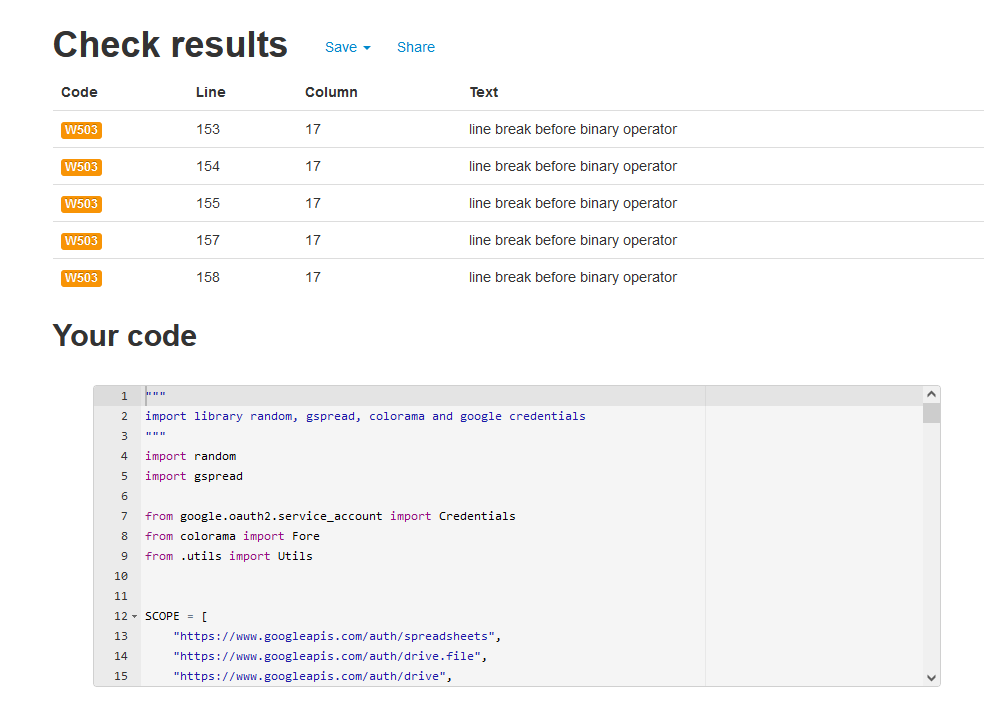
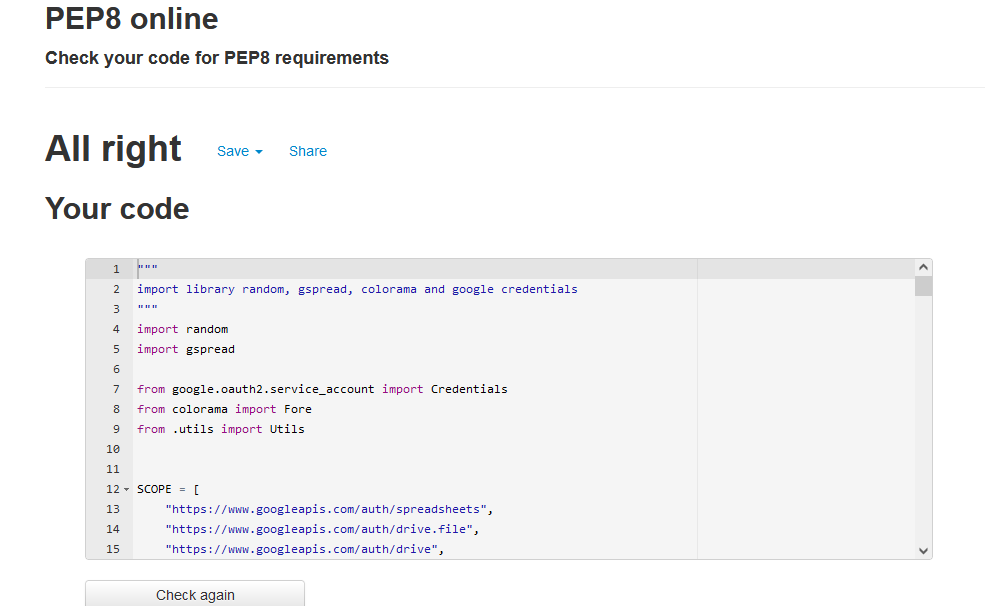
Update README and fixed pep8

diff --git a/modules/functions.py b/modules/functions.py
@@ -149,13 +149,13 @@ class Functions:
         if len(val_list) > 1:
             print(Fore.MAGENTA + "\nTOTAL:\n")
             print(
-                Fore.WHITE
-                + "  There are "
-                + str(len(val_list))
-                + " participants in total",
-                "with an average of "
-                + str(round(sum(val_list) / len(val_list), 2))
-                + " points.\n",
+                Fore.WHITE +
+                "  There are " +
+                str(len(val_list)) +
+                " participants in total",
+                "with an average of " +
+                str(round(sum(val_list) / len(val_list), 2)) +
+                " points.\n",
             )
 
     @staticmethod

diff --git a/README.md b/README.md
@@ -178,7 +178,7 @@ run.py
 modules/start.py
 ![modules/start.py](readme/pycheck2.png)
 
-modules/functionspy (Followed the guidelines to fix W503 but doesn't seems to work)
+modules/functionspy 
 ![modules/functionspy](readme/pycheck3.png)
 
 modules/utils.py
